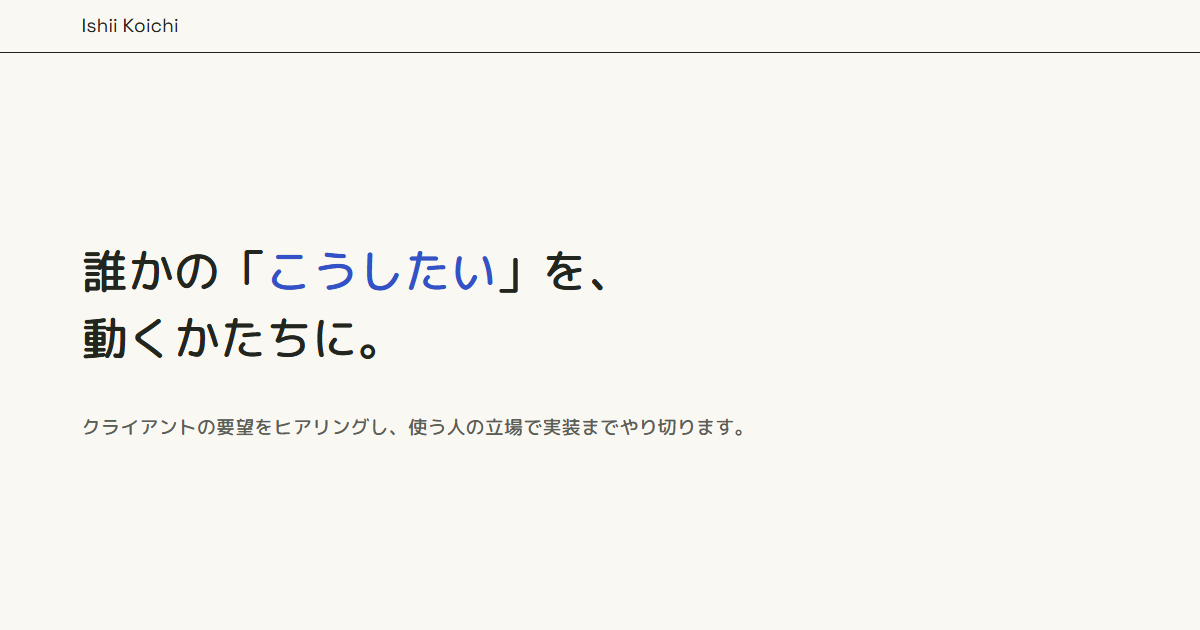
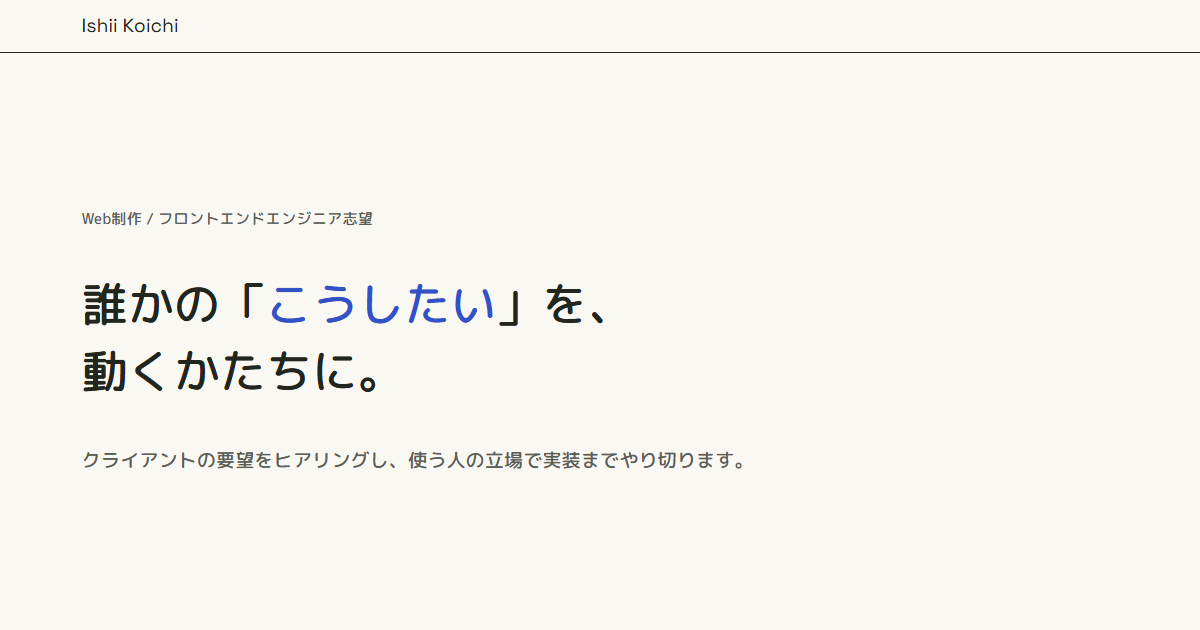
feat: ファーストビューに肩書を追加し、OGP画像を撮りなおす

Changed region(s): [[0.0617, 0.3921, 0.5242, 0.6333], [0.0617, 0.6635, 0.6167, 0.754], [0.0617, 0.3317, 0.3083, 0.3619]]

diff --git a/src/app/_components/Hero/Hero.tsx b/src/app/_components/Hero/Hero.tsx
@@ -11,6 +11,7 @@ export default function Hero() {
     const leadRef = useRef<HTMLParagraphElement>(null);
     const actionsRef = useRef<HTMLDivElement>(null);
     const scrollRef = useRef<HTMLDivElement>(null);
+    const roleRef = useRef<HTMLParagraphElement>(null);
 
     useGSAP(() => {
         const mm = gsap.matchMedia();
@@ -29,7 +30,7 @@ export default function Hero() {
 
             /** サブコピーとボタンが先に薄くなる */
             .to(
-                [leadRef.current, actionsRef.current, scrollRef.current], { opacity: 0, duration: 0.6 }, 0)
+                [roleRef.current, leadRef.current, actionsRef.current, scrollRef.current], { opacity: 0, duration: 0.6 }, 0)
             /** メインコピーは半分まで残り、最後に上へ動きながら消える */
             .to(titleRef.current, { opacity: 0, y: -40, duration: 0.8 }, 0.2)
         });
@@ -38,6 +39,7 @@ export default function Hero() {
     return (
         <section ref={heroRef} className={styles.hero}>
             <div className={styles.inner}>
+                <p ref={roleRef} className={styles.role}>Web制作 / フロントエンドエンジニア志望</p>
                 <h1 ref={titleRef} className={styles.title}>
                     <span className={styles.line}>
                         誰かの「<em className={styles.emphasis}>こうしたい</em>」を、

diff --git a/src/app/_components/Hero/Hero.module.scss b/src/app/_components/Hero/Hero.module.scss
@@ -13,6 +13,12 @@
     grid-row: 2;
 }
 
+.role {
+    margin-bottom: var(--space-md);
+    font-size: var(--fs-sm);
+    color: var(--color-text-sub);
+}
+
 .title {
     font-size: var(--fs-hero);
     line-height: var(--lh-hero);
